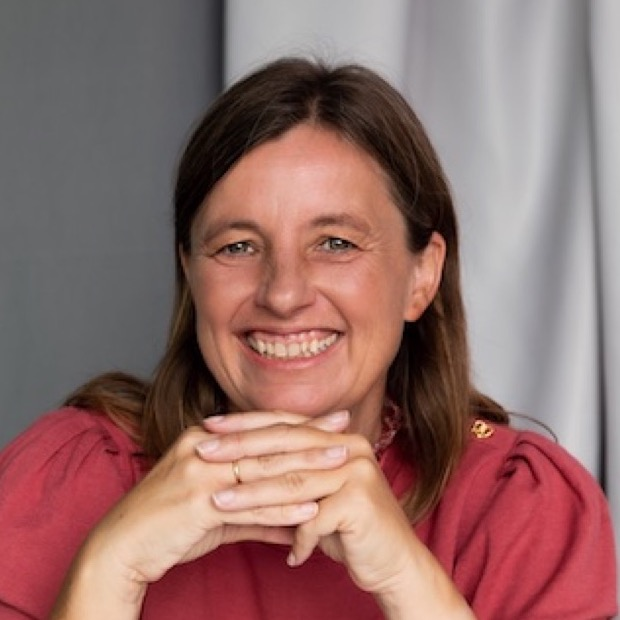
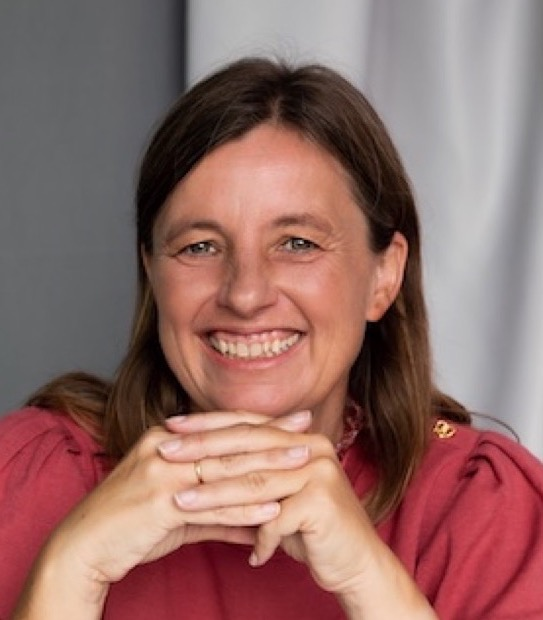
content: update organizer roles and photos

diff --git a/_includes/organizer-grid.html b/_includes/organizer-grid.html
@@ -7,7 +7,7 @@
     {% for person in role.people %}
       <li class="organizer-person organizer-person--photo">
         {% if person.photo %}
-          <img class="organizer-photo" src="{{ person.photo | relative_url }}" alt="" width="72" height="72" loading="lazy">
+          <img class="organizer-photo" src="{{ person.photo | relative_url }}" alt="" width="72" height="82" loading="lazy">
         {% endif %}
         <span class="organizer-person__details">
           {% if person.url %}